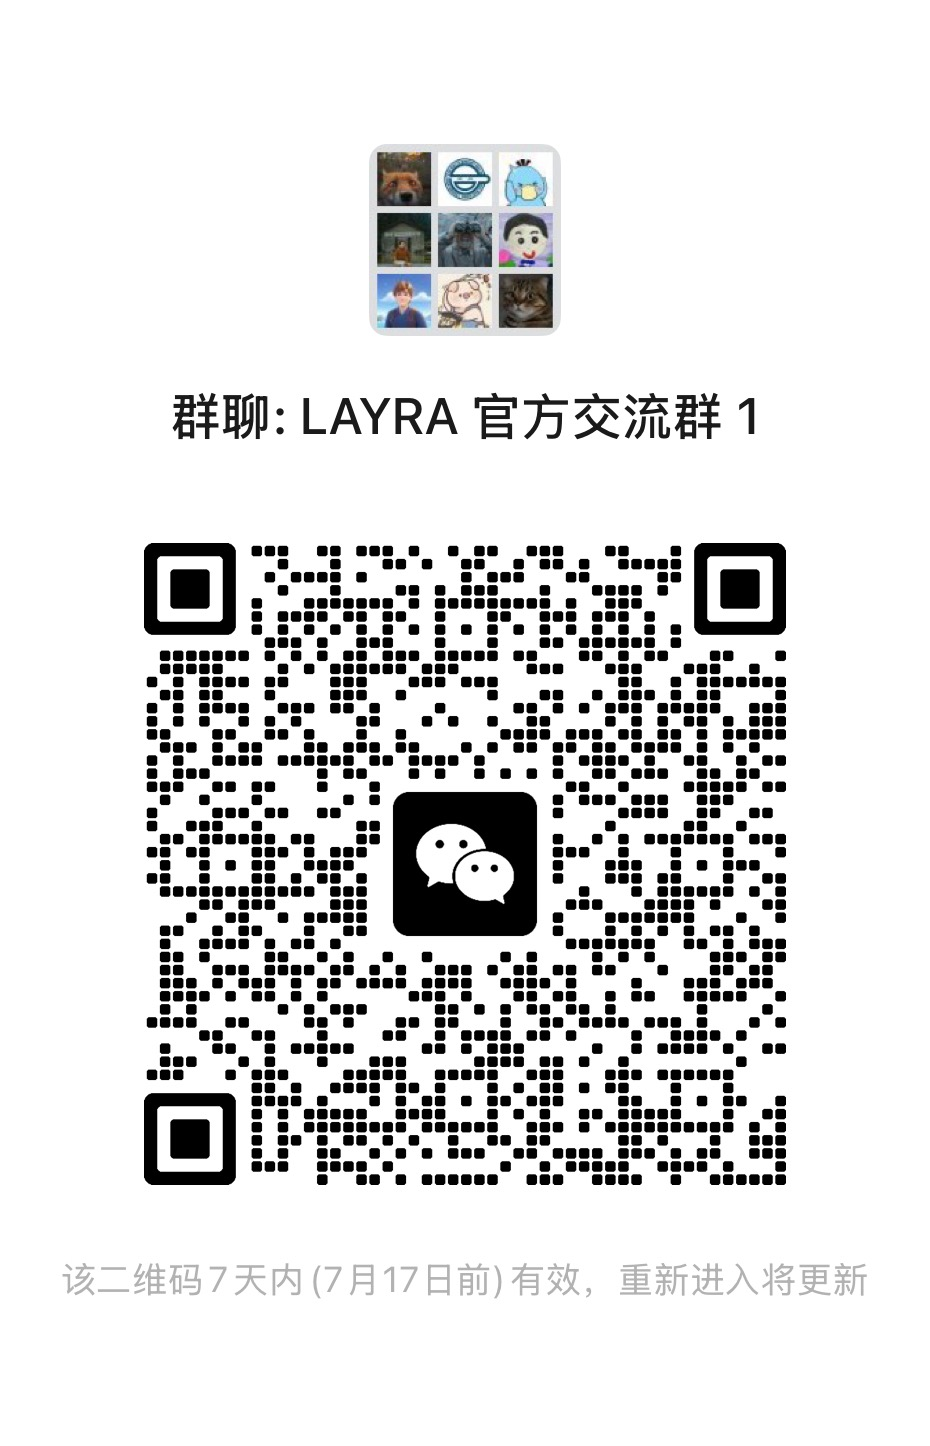
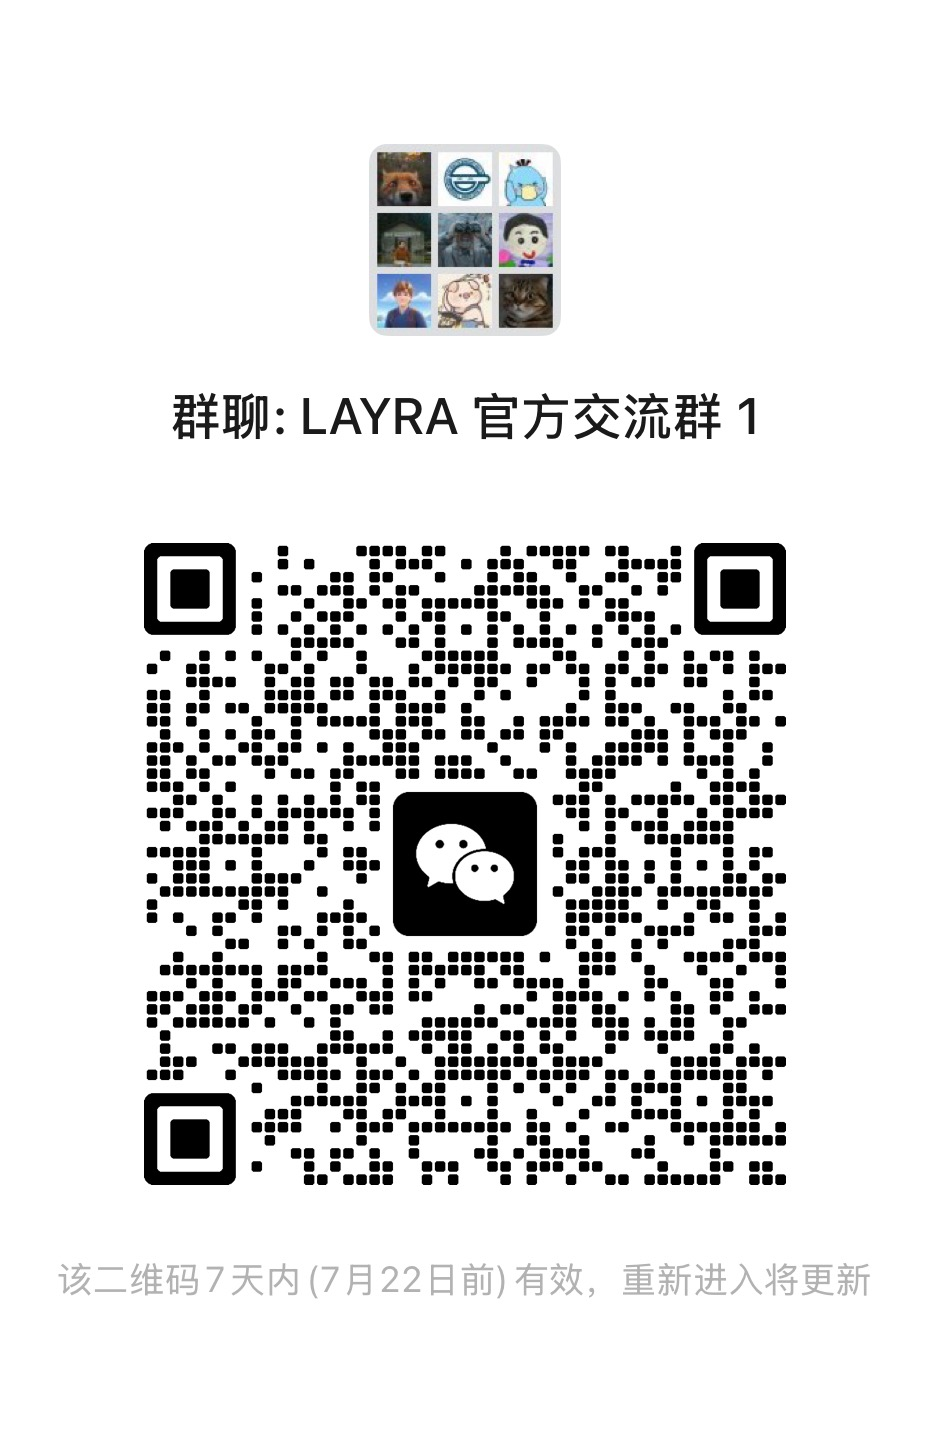
Refine visual design of the conversation UI and Update Wechat Group Picture

diff --git a/frontend/src/components/AiChat/LeftSidebar.tsx b/frontend/src/components/AiChat/LeftSidebar.tsx
@@ -196,7 +196,7 @@ const LeftSidebar: React.FC<SidebarProps> = ({
           );
           const isFirstInGroup = index === 0 || timeLabel !== lastTimeLabel;
           return (
-            <div key={index} className="flex flex-col">
+            <div key={index} className="flex flex-col gap-1">
               {isFirstInGroup && (
                 <div className="pl-2 py-2 font-bold text-sm">{timeLabel} </div>
               )}
@@ -206,33 +206,32 @@ const LeftSidebar: React.FC<SidebarProps> = ({
                   chatId === chat.conversationId
                     ? "bg-indigo-500 text-white"
                     : ""
-                } hover:bg-indigo-600 hover:text-white rounded-2xl`}
+                } hover:bg-indigo-600 hover:text-white rounded-2xl mb-1`}
               >
                 <div
                   key={index}
                   className="py-2 pl-2 pr-0 flex items-center gap-1 w-[80%] cursor-pointer text-md"
                   onClick={() => handleSelectChat(chat)}
                 >
+
                   <svg
                     xmlns="http://www.w3.org/2000/svg"
-                    fill="none"
                     viewBox="0 0 24 24"
-                    strokeWidth={1.5}
-                    stroke="currentColor"
+                    fill="currentColor"
                     className={`${
-                      chatId === chat.conversationId ? "size-6" : "size-4"
+                      chatId === chat.conversationId ? "size-6" : "size-5"
                     } shrink-0`}
                   >
                     <path
-                      strokeLinecap="round"
-                      strokeLinejoin="round"
-                      d="M7.5 8.25h9m-9 3H12m-9.75 1.51c0 1.6 1.123 2.994 2.707 3.227 1.129.166 2.27.293 3.423.379.35.026.67.21.865.501L12 21l2.755-4.133a1.14 1.14 0 0 1 .865-.501 48.172 48.172 0 0 0 3.423-.379c1.584-.233 2.707-1.626 2.707-3.228V6.741c0-1.602-1.123-2.995-2.707-3.228A48.394 48.394 0 0 0 12 3c-2.392 0-4.744.175-7.043.513C3.373 3.746 2.25 5.14 2.25 6.741v6.018Z"
+                      fillRule="evenodd"
+                      d="M4.848 2.771A49.144 49.144 0 0 1 12 2.25c2.43 0 4.817.178 7.152.52 1.978.292 3.348 2.024 3.348 3.97v6.02c0 1.946-1.37 3.678-3.348 3.97a48.901 48.901 0 0 1-3.476.383.39.39 0 0 0-.297.17l-2.755 4.133a.75.75 0 0 1-1.248 0l-2.755-4.133a.39.39 0 0 0-.297-.17 48.9 48.9 0 0 1-3.476-.384c-1.978-.29-3.348-2.024-3.348-3.97V6.741c0-1.946 1.37-3.68 3.348-3.97ZM6.75 8.25a.75.75 0 0 1 .75-.75h9a.75.75 0 0 1 0 1.5h-9a.75.75 0 0 1-.75-.75Zm.75 2.25a.75.75 0 0 0 0 1.5H12a.75.75 0 0 0 0-1.5H7.5Z"
+                      clipRule="evenodd"
                     />
                   </svg>
 
                   <div
                     className={`${
-                      chatId === chat.conversationId ? "text-base" : "text-sm"
+                      chatId === chat.conversationId ? "text-lg" : "text-base"
                     } whitespace-nowrap overflow-hidden `}
                   >
                     {isEditOpen[index] ? (

diff --git a/frontend/src/app/page.tsx b/frontend/src/app/page.tsx
@@ -21,7 +21,7 @@ const Homepage = () => {
   return (
     <div className="flex w-full h-screen items-center justify-center gap-[3%]">
       {/* 左侧内容区域 */}
-      <div className="w-[85%] h-[85%] flex flex-col gap-8 items-center justify-center shadow-lg rounded-3xl">
+      <div className="relative w-[85%] h-[85%] flex flex-col gap-8 items-center justify-center shadow-lg rounded-3xl">
         {/* logo */}
         <div className="w-[80%] h-[80%] flex items-center justify-center transform transition-transform duration-300  hover:scale-105">
           <Image
@@ -139,6 +139,36 @@ const Homepage = () => {
               GitHub{" "}
             </a>
           </h4>
+        </div>
+        <div className="absolute top-6 right-10 text-sm">
+          <a
+            href="https://github.com/liweiphys/layra"
+            className="text-indigo-700 ml-1"
+            target="_blank"
+          >
+            {" "}
+            GitHub{" "}
+          </a>
+          <span>|</span>
+          <a
+            href="https://github.com/liweiphys/layra/blob/main/assets/Wechat-group1.jpg"
+            className="text-indigo-700 ml-1"
+            target="_blank"
+            rel="noopener noreferrer"
+          >
+            {" "}
+            Wechat Group (微信群) {" "}
+          </a>
+          <span>|</span>
+          <a
+            href="https://liweiphys.github.io/layra/"
+            className="text-indigo-700 ml-1"
+            target="_blank"
+            rel="noopener noreferrer"
+          >
+            {" "}
+            Tutorial{" "}
+          </a>
         </div>
       </div>
     </div>

diff --git a/frontend/src/components/AiChat/ChatBox.tsx b/frontend/src/components/AiChat/ChatBox.tsx
@@ -362,7 +362,7 @@ const ChatBox: React.FC<ChatBoxProps> = ({
             )}
           </div>
         ) : (
-          <div className="h-[100%] w-[70%] flex flex-col mx-auto">
+          <div className="h-[100%] w-[75%] flex flex-col mx-auto">
             <div className="shadow-xs rounded-xl pb-2 mb-2 flex flex-col item-center justify-center gap-1">
               <div className="w-full px-10 text-sm flex items-center justify-center gap-2 text-indigo-500 font-semibold">
                 <svg
@@ -461,7 +461,7 @@ const ChatBox: React.FC<ChatBoxProps> = ({
         )}
       </div>
       {/* 新增定位容器 */}
-      <div className="relative w-[70%] mt-4 mb-4 max-h-[25%] flex items-center justify-center gap-4 mx-auto">
+      <div className="relative w-[75%] mt-4 mb-4 max-h-[40%] flex items-center justify-center gap-4 mx-auto">
         <div className="relative min-w-[75%] h-[100%]">
           <div className="flex justify-center items-center h-full">
             <textarea
@@ -583,7 +583,7 @@ const ChatBox: React.FC<ChatBoxProps> = ({
           </div>
         </div>
         <button
-          className={`min-w-[14%] flex gap-1 ${
+          className={`min-w-[13%] flex gap-1 ${
             isSendDisabled || sendDisabled
               ? "bg-indigo-300 cursor-not-allowed"
               : "bg-indigo-500 hover:bg-indigo-600 cursor-pointer"

diff --git a/frontend/src/components/AiChat/ChatMessage.tsx b/frontend/src/components/AiChat/ChatMessage.tsx
@@ -76,8 +76,8 @@ const ChatMessage: React.FC<ChatMessageProps> = ({
 
   return (
     <div
-      className={`m-1 rounded-3xl max-w-[95%] w-fit break-words flex flex-col 
-        ${isUser ? "ml-auto" : "mr-auto"} ${
+      className={`m-1 rounded-3xl w-fit break-words flex flex-col 
+        ${isUser ? "ml-auto max-w-[90%]" : "mr-auto max-w-[98%]"} ${
         isUser && message.type === "text"
           ? "" //"bg-indigo-300 shadow-lg"
           : message.type === "image"
